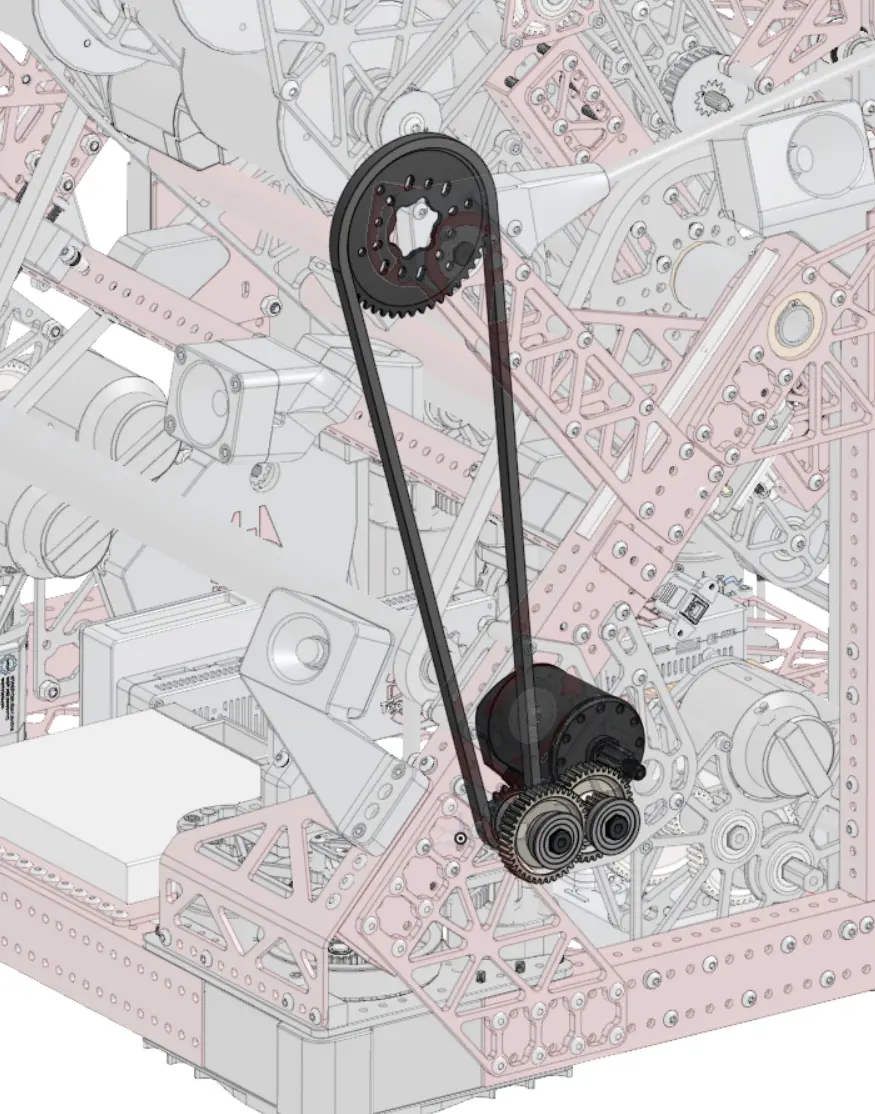
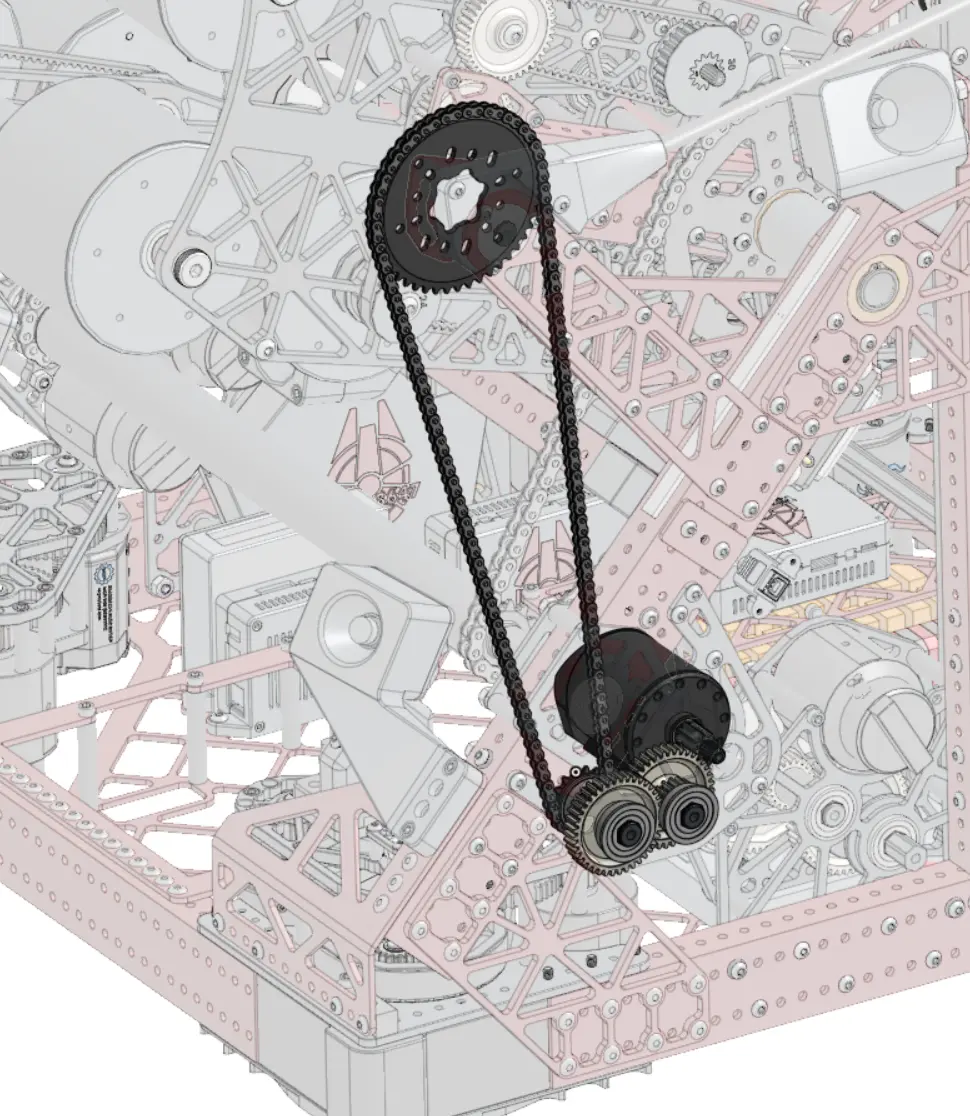
changes example images  to have realistic belts and chain

diff --git a/docs/design-guide/stage1/1B-powerTransmissions.md b/docs/design-guide/stage1/1B-powerTransmissions.md
@@ -113,6 +113,13 @@ In this stage, you'll focus on the fundamentals of power transmissions, with an 
 
       <div class="mySlides fade">
           <figure>
+              <img src="/img/design-guide/stage1b/examples/intakePivot.webp" style="width:80%">
+              <figcaption> Gear and chain power transmission to pivot the intake. </figcaption>
+          </figure>
+      </div>
+
+      <div class="mySlides fade">
+          <figure>
               <img src="/img/design-guide/stage1b/examples/shooter.webp" style="width:80%">
               <figcaption> Belt and gear power transmission to spin shooter wheels.</figcaption>
           </figure>
